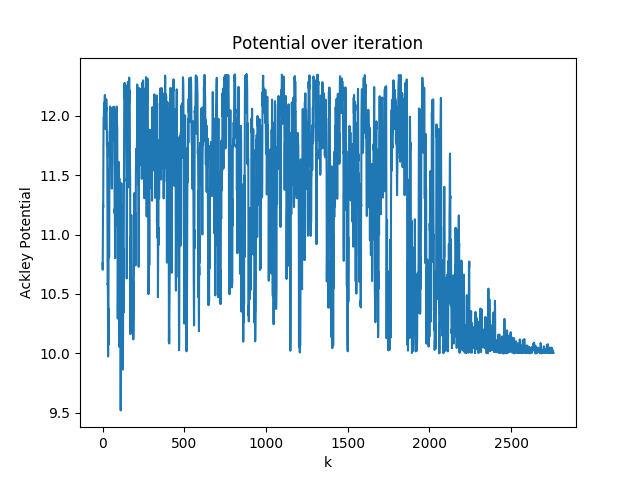
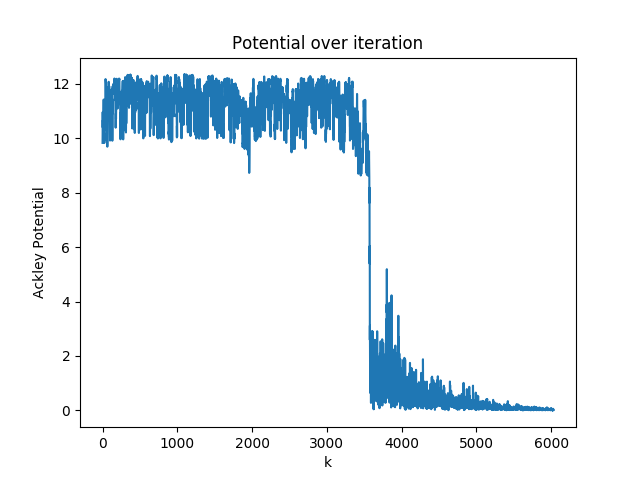
hw4: done pb3

diff --git a/HW04/pb3/main.py b/HW04/pb3/main.py
@@ -5,8 +5,8 @@ import matplotlib
 matplotlib.use('TkAgg')
 import matplotlib.pyplot as plt
 
-T = 30000
-T_DECAY = 0.9
+T = 300
+T_DECAY = 0.95
 T_STOP = 1e-2
 N_ACCEPTED_MAX = 30
 
@@ -54,6 +54,17 @@ def ackley(x, a=A, b=B, c=C):
         a + np.exp(1)
     )
 
+def check_bc(position):
+    if position[0] < XMIN:
+        position[0] = XMIN
+    if position[0] > XMAX:
+        position[0] = XMAX
+    if position[1] < YMIN:
+        position[1] = YMIN
+    if position[1] > YMAX:
+        position[1] = YMAX
+    return position
+
 if __name__ == "__main__":
     accepted_position = START_POSITION
     old_potential = ackley(accepted_position)
@@ -64,6 +75,7 @@ if __name__ == "__main__":
         while n < N_ACCEPTED_MAX:
             # x <- x + dx
             new_position = accepted_position + np.random.normal(loc=0.0, scale=1, size=2)
+            new_position = check_bc(new_position)
             # dE
             new_potential = ackley(new_position)
             diff_potential = new_potential - old_potential
